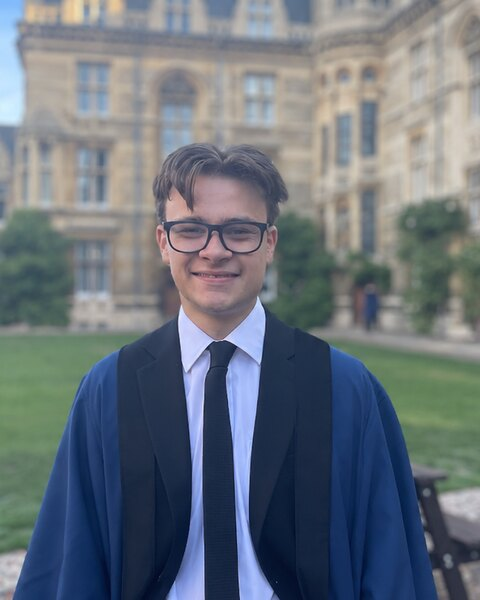
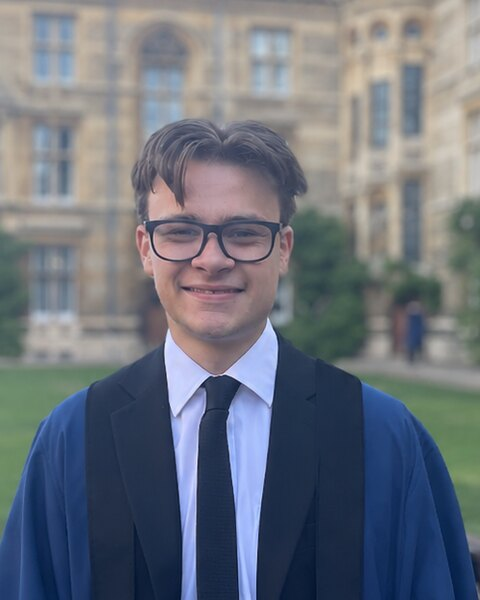
Refine portrait and replace Strata with One Million Chessboards

diff --git a/work/index.html b/work/index.html
@@ -4,7 +4,7 @@
 <meta charset="utf-8">
 <meta name="viewport" content="width=device-width, initial-scale=1">
 <title>Work — James Ashwood</title>
-<meta name="description" content="Selected projects by James Ashwood: Strata, an NHS throat camera, DeskBuddy, Speed Dreams, numerical methods and racing simulators.">
+<meta name="description" content="Selected projects by James Ashwood: One Million Chessboards, an NHS throat camera, DeskBuddy, Speed Dreams, numerical methods and racing simulators.">
 <link rel="canonical" href="https://www.jamesashwood.com/work/">
 <meta name="author" content="James Ashwood">
 <meta name="theme-color" content="#fbfaf7" media="(prefers-color-scheme: light)">
@@ -13,13 +13,13 @@
 <meta property="og:type" content="website">
 <meta property="og:url" content="https://www.jamesashwood.com/work/">
 <meta property="og:title" content="Work — James Ashwood">
-<meta property="og:description" content="Selected projects: Strata, an NHS throat camera, DeskBuddy, Speed Dreams and more.">
+<meta property="og:description" content="Selected projects: One Million Chessboards, an NHS throat camera, DeskBuddy, Speed Dreams and more.">
 <meta property="og:image" content="https://www.jamesashwood.com/assets/og.png">
 <meta name="twitter:card" content="summary_large_image">
 
-<link rel="icon" href="/assets/favicon.svg?v=8" type="image/svg+xml">
+<link rel="icon" href="/assets/favicon.svg?v=9" type="image/svg+xml">
 <link rel="preload" href="/assets/fonts/newsreader-latin.woff2" as="font" type="font/woff2" crossorigin>
-<link rel="stylesheet" href="/assets/styles.css?v=8">
+<link rel="stylesheet" href="/assets/styles.css?v=9">
 <script>
   (function () {
     try {
@@ -72,27 +72,25 @@
     </div>
   </header>
 
-  <article class="featured" id="strata">
-    <h2>Strata</h2>
-    <p class="featured-meta">Self-hosted geospatial workspace · 2026</p>
+  <article class="featured" id="one-million-chessboards">
+    <h2>One Million Chessboards</h2>
+    <p class="featured-meta">OCaml · Systems · 2026</p>
     <p>
-      A self-hosted geospatial workspace for a NAS, home server or VPS. Strata serves
-      OpenStreetMap-based basemaps, lets you add and manage private vector and raster layers,
-      imports GeoJSON, GeoPackage, Shapefile, KML, GPX, GeoTIFF/COG, WMS, WFS, ArcGIS and STAC
-      data, and ingests geotagged photos with EXIF metadata. It can also import satellite
-      embeddings for analysis.
+      A server-authoritative world of 1,000 × 1,000 chessboards — 64 million squares and
+      32 million starting pieces — with a pannable Brr/WASM client. The server keeps packed
+      board state in flat arrays, serves 25 × 25 snapshots with one-byte pieces, and
+      broadcasts live moves over a binary WebSocket protocol.
     </p>
     <p>
-      The stack is Docker Compose with PostGIS, FastAPI, Redis/RQ workers, React and MapLibre
-      on the front end, TileServer GL and Caddy. It includes accounts, roles, per-layer
-      permissions, version history, background import jobs and a catalogue of 50+ public map
-      overlays.
+      The interesting constraints were memory and fan-out: roughly 520 MB of resident state,
+      a single authoritative writer, batched event frames and a cache that has to survive
+      duplicate and out-of-order moves.
     </p>
     <ul class="featured-tags">
-      <li>Docker</li><li>PostGIS</li><li>FastAPI</li><li>React</li><li>MapLibre</li><li>Redis</li><li>Geospatial</li>
+      <li>OCaml</li><li>Brr / WASM</li><li>WebSockets</li><li>Systems</li>
     </ul>
     <p class="featured-links">
-      <a href="https://github.com/ja927cam/strata" target="_blank" rel="noopener">Source on GitHub ↗</a>
+      <a href="/notes/one-million-chessboards.html">Read the note ↗</a>
     </p>
   </article>
 
@@ -220,6 +218,6 @@
   <a href="#top" class="to-top">Top <span aria-hidden="true">↑</span></a>
 </footer>
 
-<script src="/assets/main.js?v=8" defer></script>
+<script src="/assets/main.js?v=9" defer></script>
 </body>
 </html>

diff --git a/index.html b/index.html
@@ -23,11 +23,11 @@
 <meta name="twitter:description" content="Software engineer and Computer Science undergraduate at Gonville &amp; Caius, Cambridge.">
 <meta name="twitter:image" content="https://www.jamesashwood.com/assets/og.png">
 
-<link rel="icon" href="/assets/favicon.svg?v=8" type="image/svg+xml">
-<link rel="apple-touch-icon" href="/assets/favicon.svg?v=8">
+<link rel="icon" href="/assets/favicon.svg?v=9" type="image/svg+xml">
+<link rel="apple-touch-icon" href="/assets/favicon.svg?v=9">
 <link rel="preload" href="/assets/fonts/newsreader-latin.woff2" as="font" type="font/woff2" crossorigin>
-<link rel="preload" href="/assets/portrait.jpg?v=8" as="image" type="image/jpeg">
-<link rel="stylesheet" href="/assets/styles.css?v=8">
+<link rel="preload" href="/assets/portrait.jpg?v=9" as="image" type="image/jpeg">
+<link rel="stylesheet" href="/assets/styles.css?v=9">
 <script>
   (function () {
     try {
@@ -105,7 +105,8 @@
           </p>
         </div>
         <figure class="portrait">
-          <img src="/assets/portrait.jpg?v=8" alt="James Ashwood in the Gonville &amp; Caius courtyard" width="480" height="600">
+          <img src="/assets/portrait.jpg?v=9" alt="James Ashwood in the Gonville &amp; Caius courtyard" width="480" height="600">
+          <figcaption>Cambridge, 2026</figcaption>
         </figure>
       </div>
 
@@ -184,10 +185,10 @@
     </div>
     <div class="work-grid">
       <article class="work">
-        <h3><a href="/work/#strata">Strata</a></h3>
-        <p class="work-meta">Geospatial workspace · 2026</p>
-        <p>Self-hosted maps, private layers and photo ingest for a NAS or home server. PostGIS, FastAPI, React and MapLibre in a Docker stack.</p>
-        <p class="work-tags">PostGIS · FastAPI · React · Docker</p>
+        <h3><a href="/work/#one-million-chessboards">One Million Chessboards</a></h3>
+        <p class="work-meta">OCaml · Systems · 2026</p>
+        <p>A server-authoritative world of 64 million squares, a 25×25 snapshot cache and live moves over a binary WebSocket.</p>
+        <p class="work-tags">OCaml · Brr/WASM · WebSockets</p>
       </article>
 
       <article class="work">
@@ -320,6 +321,6 @@
   <a href="#top" class="to-top">Top <span aria-hidden="true">↑</span></a>
 </footer>
 
-<script src="/assets/main.js?v=8" defer></script>
+<script src="/assets/main.js?v=9" defer></script>
 </body>
 </html>

diff --git a/cv/index.html b/cv/index.html
@@ -17,9 +17,9 @@
 <meta property="og:image" content="https://www.jamesashwood.com/assets/og.png">
 <meta name="twitter:card" content="summary_large_image">
 
-<link rel="icon" href="/assets/favicon.svg?v=8" type="image/svg+xml">
+<link rel="icon" href="/assets/favicon.svg?v=9" type="image/svg+xml">
 <link rel="preload" href="/assets/fonts/newsreader-latin.woff2" as="font" type="font/woff2" crossorigin>
-<link rel="stylesheet" href="/assets/styles.css?v=8">
+<link rel="stylesheet" href="/assets/styles.css?v=9">
 <script>
   (function () {
     try {
@@ -159,17 +159,6 @@
     <h2>Selected projects</h2>
 
     <div class="cv-role">
-      <div class="cv-when">2026</div>
-      <div>
-        <h3><a class="inline" href="/work/#strata">Strata</a></h3>
-        <p class="cv-org">Self-hosted geospatial workspace</p>
-        <ul>
-          <li>Docker Compose stack with PostGIS, FastAPI, Redis/RQ, React and MapLibre; private vector and raster layers, geotagged photo ingest and satellite embeddings.</li>
-        </ul>
-      </div>
-    </div>
-
-    <div class="cv-role">
       <div class="cv-when">Product</div>
       <div>
         <h3><a class="inline" href="/work/#nhs">NHS throat camera</a> &amp; <a class="inline" href="/work/#deskbuddy">DeskBuddy</a></h3>
@@ -244,6 +233,6 @@
   <a href="#top" class="to-top">Top <span aria-hidden="true">↑</span></a>
 </footer>
 
-<script src="/assets/main.js?v=8" defer></script>
+<script src="/assets/main.js?v=9" defer></script>
 </body>
 </html>

diff --git a/notes/offline-maps.html b/notes/offline-maps.html
@@ -16,10 +16,10 @@
 <meta property="og:image" content="https://www.jamesashwood.com/assets/og.png">
 <meta property="article:published_time" content="2026-11-09">
 <meta name="twitter:card" content="summary_large_image">
-<link rel="icon" href="/assets/favicon.svg?v=8" type="image/svg+xml">
+<link rel="icon" href="/assets/favicon.svg?v=9" type="image/svg+xml">
 <link rel="preload" href="/assets/fonts/newsreader-latin.woff2" as="font" type="font/woff2" crossorigin>
 <link rel="preload" href="/assets/fonts/newsreader-italic-latin.woff2" as="font" type="font/woff2" crossorigin>
-<link rel="stylesheet" href="/assets/styles.css?v=8">
+<link rel="stylesheet" href="/assets/styles.css?v=9">
 <script>
   (function () {
     try {
@@ -154,6 +154,6 @@
   </nav>
   <a href="#top" class="to-top">Top <span aria-hidden="true">↑</span></a>
 </footer>
-<script src="/assets/main.js?v=8" defer></script>
+<script src="/assets/main.js?v=9" defer></script>
 </body>
 </html>

diff --git a/notes/one-million-chessboards.html b/notes/one-million-chessboards.html
@@ -16,10 +16,10 @@
 <meta property="og:image" content="https://www.jamesashwood.com/assets/og.png">
 <meta property="article:published_time" content="2026-11-23">
 <meta name="twitter:card" content="summary_large_image">
-<link rel="icon" href="/assets/favicon.svg?v=8" type="image/svg+xml">
+<link rel="icon" href="/assets/favicon.svg?v=9" type="image/svg+xml">
 <link rel="preload" href="/assets/fonts/newsreader-latin.woff2" as="font" type="font/woff2" crossorigin>
 <link rel="preload" href="/assets/fonts/newsreader-italic-latin.woff2" as="font" type="font/woff2" crossorigin>
-<link rel="stylesheet" href="/assets/styles.css?v=8">
+<link rel="stylesheet" href="/assets/styles.css?v=9">
 <script>
   (function () {
     try {
@@ -172,6 +172,6 @@
   </nav>
   <a href="#top" class="to-top">Top <span aria-hidden="true">↑</span></a>
 </footer>
-<script src="/assets/main.js?v=8" defer></script>
+<script src="/assets/main.js?v=9" defer></script>
 </body>
 </html>

diff --git a/notes/small-models.html b/notes/small-models.html
@@ -16,10 +16,10 @@
 <meta property="og:image" content="https://www.jamesashwood.com/assets/og.png">
 <meta property="article:published_time" content="2026-10-18">
 <meta name="twitter:card" content="summary_large_image">
-<link rel="icon" href="/assets/favicon.svg?v=8" type="image/svg+xml">
+<link rel="icon" href="/assets/favicon.svg?v=9" type="image/svg+xml">
 <link rel="preload" href="/assets/fonts/newsreader-latin.woff2" as="font" type="font/woff2" crossorigin>
 <link rel="preload" href="/assets/fonts/newsreader-italic-latin.woff2" as="font" type="font/woff2" crossorigin>
-<link rel="stylesheet" href="/assets/styles.css?v=8">
+<link rel="stylesheet" href="/assets/styles.css?v=9">
 <script>
   (function () {
     try {
@@ -153,6 +153,6 @@
   </nav>
   <a href="#top" class="to-top">Top <span aria-hidden="true">↑</span></a>
 </footer>
-<script src="/assets/main.js?v=8" defer></script>
+<script src="/assets/main.js?v=9" defer></script>
 </body>
 </html>

diff --git a/ideas/index.html b/ideas/index.html
@@ -15,9 +15,9 @@
 <meta property="og:description" content="Three questions: real-time games in OCaml, OSM for severe-weather risk, and small local models.">
 <meta property="og:image" content="https://www.jamesashwood.com/assets/og.png">
 <meta name="twitter:card" content="summary_large_image">
-<link rel="icon" href="/assets/favicon.svg?v=8" type="image/svg+xml">
+<link rel="icon" href="/assets/favicon.svg?v=9" type="image/svg+xml">
 <link rel="preload" href="/assets/fonts/newsreader-latin.woff2" as="font" type="font/woff2" crossorigin>
-<link rel="stylesheet" href="/assets/styles.css?v=8">
+<link rel="stylesheet" href="/assets/styles.css?v=9">
 <script>
   (function () {
     try {
@@ -144,6 +144,6 @@
   </nav>
   <a href="#top" class="to-top">Top <span aria-hidden="true">↑</span></a>
 </footer>
-<script src="/assets/main.js?v=8" defer></script>
+<script src="/assets/main.js?v=9" defer></script>
 </body>
 </html>

diff --git a/notes/index.html b/notes/index.html
@@ -15,9 +15,9 @@
 <meta property="og:description" content="Short technical notes on OCaml, local models, maps and systems.">
 <meta property="og:image" content="https://www.jamesashwood.com/assets/og.png">
 <meta name="twitter:card" content="summary_large_image">
-<link rel="icon" href="/assets/favicon.svg?v=8" type="image/svg+xml">
+<link rel="icon" href="/assets/favicon.svg?v=9" type="image/svg+xml">
 <link rel="preload" href="/assets/fonts/newsreader-latin.woff2" as="font" type="font/woff2" crossorigin>
-<link rel="stylesheet" href="/assets/styles.css?v=8">
+<link rel="stylesheet" href="/assets/styles.css?v=9">
 <script>
   (function () {
     try {
@@ -99,6 +99,6 @@
   </nav>
   <a href="#top" class="to-top">Top <span aria-hidden="true">↑</span></a>
 </footer>
-<script src="/assets/main.js?v=8" defer></script>
+<script src="/assets/main.js?v=9" defer></script>
 </body>
 </html>

diff --git a/assets/styles.css b/assets/styles.css
@@ -1316,7 +1316,7 @@ html[data-theme="light"] .icon-moon { display: none; }
 
 .portrait {
   flex: none;
-  width: 140px;
+  width: 160px;
   margin: 0;
 }
 
@@ -1324,8 +1324,19 @@ html[data-theme="light"] .icon-moon { display: none; }
   display: block;
   width: 100%;
   height: auto;
-  border: 1px solid var(--rule);
+  border: 1px solid var(--rule-strong);
+  border-radius: 2px;
   background: var(--surface-2);
+  filter: saturate(0.92) contrast(1.02);
+}
+
+.portrait figcaption {
+  margin-top: 6px;
+  font-family: var(--mono);
+  font-size: 8.5px;
+  letter-spacing: 0.06em;
+  text-transform: uppercase;
+  color: var(--muted);
 }
 
 @media (max-width: 600px) {
@@ -1334,5 +1345,5 @@ html[data-theme="light"] .icon-moon { display: none; }
     align-items: flex-start;
     gap: 14px;
   }
-  .portrait { width: 96px; }
+  .portrait { width: 112px; }
 }

diff --git a/404.html b/404.html
@@ -5,8 +5,8 @@
 <meta name="viewport" content="width=device-width, initial-scale=1">
 <title>Page not found — James Ashwood</title>
 <meta name="robots" content="noindex">
-<link rel="icon" href="/assets/favicon.svg?v=8" type="image/svg+xml">
-<link rel="stylesheet" href="/assets/styles.css?v=8">
+<link rel="icon" href="/assets/favicon.svg?v=9" type="image/svg+xml">
+<link rel="stylesheet" href="/assets/styles.css?v=9">
 <script>
   (function () {
     try {
@@ -70,6 +70,6 @@
   <a href="#top" class="to-top">Top <span aria-hidden="true">↑</span></a>
 </footer>
 
-<script src="/assets/main.js?v=8" defer></script>
+<script src="/assets/main.js?v=9" defer></script>
 </body>
 </html>
